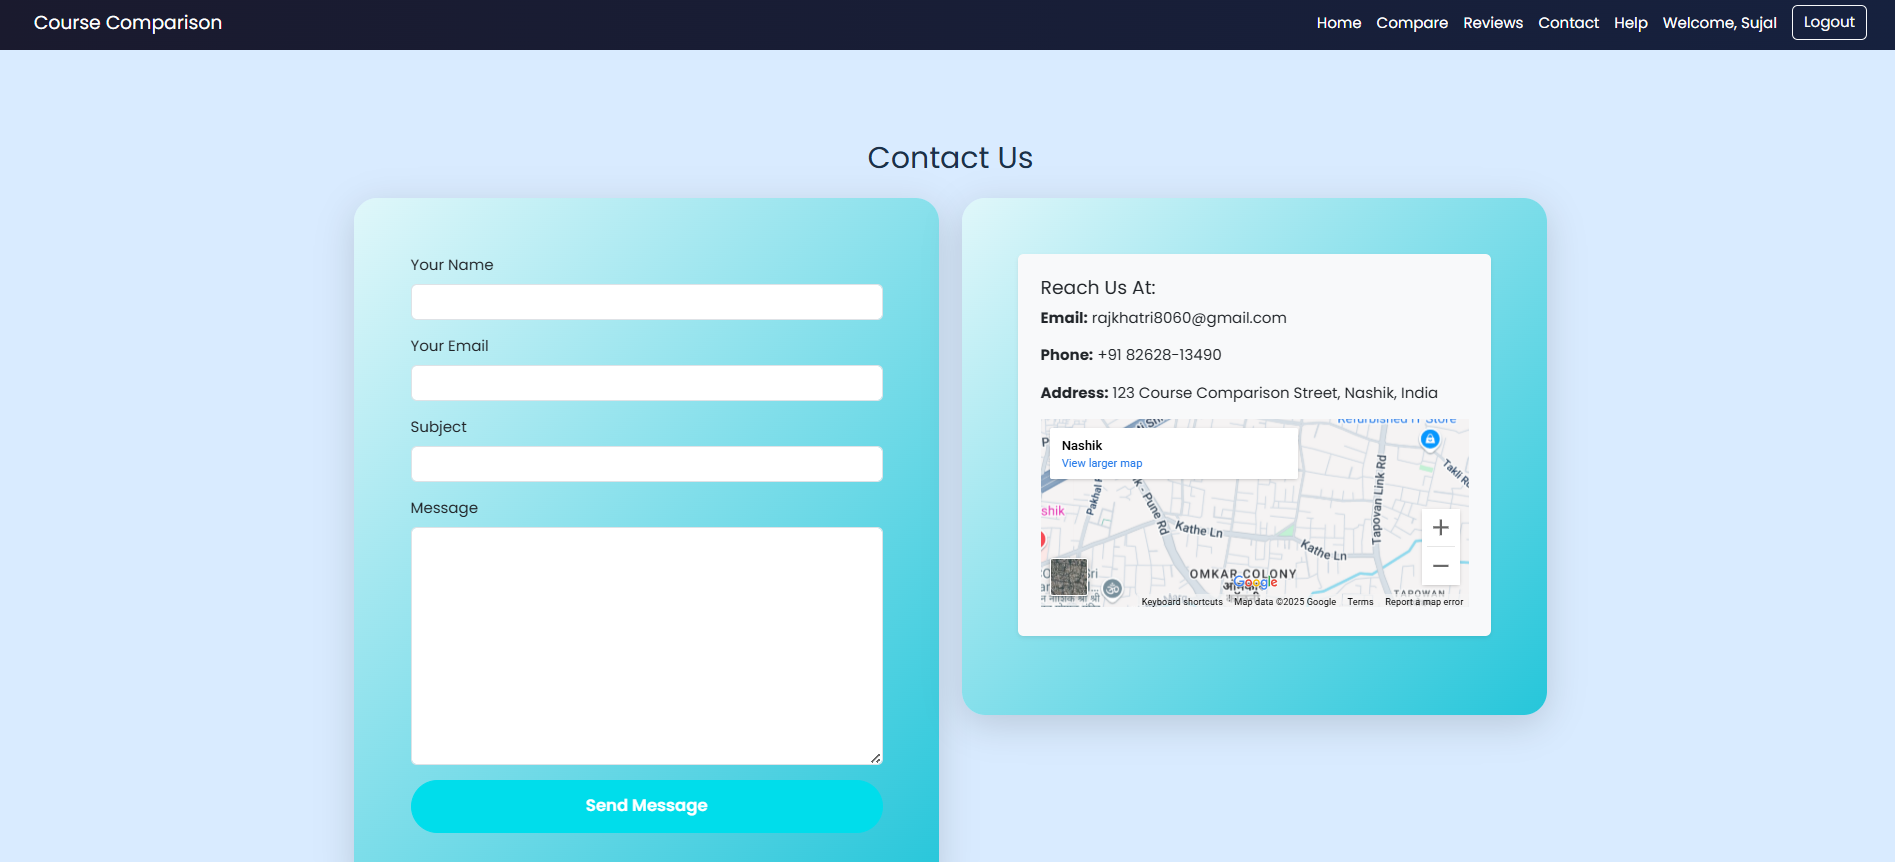
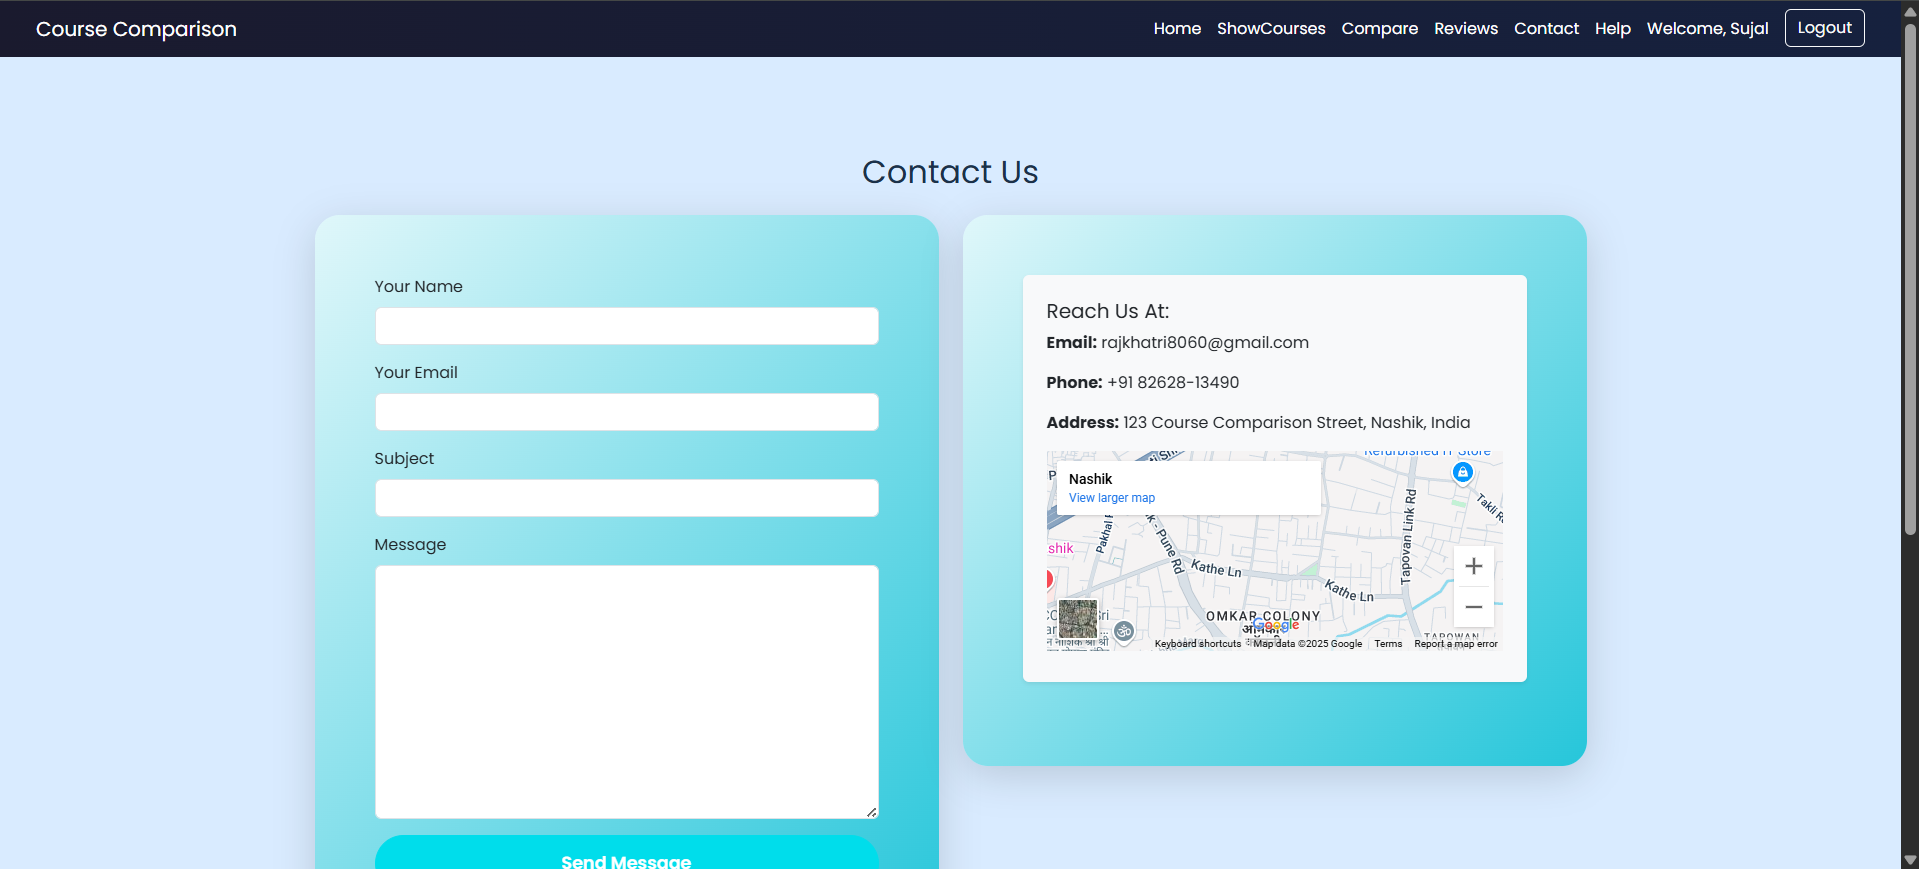
New Photos

Changed region(s): [[0.1557, 0.1508, 0.8406, 1.0], [0.0, 0.0, 1.0, 1.0]]

diff --git a/courses/templates/home.html b/courses/templates/home.html
@@ -3,12 +3,170 @@
 {% block title %}Home - Course Comparison{% endblock %}
 
 {% block content %}
+<style>
+    /* Hero Section Styling */
+    .hero-section {
+        background: linear-gradient(to right, #0d47a1 0%, #42a5f5 100%);
+        position: relative;
+        overflow: hidden;
+        padding: 6rem 2rem;
+        border-radius: 20px;
+        margin: 2rem auto;
+        max-width: 100%;
+        text-align: center;
+        color: #fff;
+    }
 
-<div class="hero-section">
-    <div class="backdrop animate__animated animate__fadeInUp text-center">
-        <h1 class="display-4 fw-bold">Find Your Ideal IT Course</h1>
-        <p class="lead mt-3">Explore and compare top IT courses in Pune based on fees, ratings, placements, and more to kickstart your career.</p>
-        <a href="{% url 'course_list' %}" class="btn btn-primary btn-lg mt-4 animate__animated animate__pulse animate__infinite">Compare Courses Now</a>
+    .hero-section::before {
+        content: '';
+        position: absolute;
+        top: 0;
+        left: 0;
+        height: 100%;
+        width: 100%;
+        background: linear-gradient(to right, rgba(0, 0, 0, 0.4), rgba(0, 0, 0, 0.05));
+        z-index: 0;
+    }
+
+    .hero-section > * {
+        position: relative;
+        z-index: 1;
+    }
+
+    .hero-title {
+        font-size: 2.8rem;
+        font-weight: 700;
+        text-transform: uppercase;
+        text-shadow: 1px 1px 4px rgba(0, 0, 0, 0.4);
+    }
+
+    .hero-lead {
+        font-size: 1.25rem;
+        max-width: 80%;
+        margin: 0 auto;
+        line-height: 1.7;
+        color: #f0f0f0;
+    }
+
+    .hero-btn {
+        background: #fff;
+        color: #0d47a1;
+        border: none;
+        padding: 0.85rem 2.2rem;
+        font-size: 1.125rem;
+        font-weight: 700;
+        border-radius: 50px;
+        transition: transform 0.3s, box-shadow 0.3s, background-color 0.3s;
+    }
+
+    .hero-btn:hover {
+        transform: scale(1.1);
+        box-shadow: 0 8px 16px rgba(0, 0, 0, 0.3);
+        background-color: #bbdefb;
+    }
+
+    /* Top Courses Styling */
+    .top-courses {
+        background: linear-gradient(to bottom, #f8f9fa 0%, #e9ecef 100%);
+        padding: 5rem 0;
+    }
+    .course-card {
+        border-radius: 15px;
+        transition: transform 0.3s, box-shadow 0.3s;
+        background: #fff;
+    }
+    .course-card:hover {
+        transform: translateY(-10px);
+        box-shadow: 0 12px 24px rgba(0, 0, 0, 0.2) !important;
+    }
+    .course-card .card-body {
+        padding: 1.5rem;
+    }
+    .course-card .card-title {
+        font-size: 1.5rem;
+        color: #343a40;
+    }
+    .course-card .badge {
+        font-size: 0.9rem;
+    }
+    .course-btn {
+        transition: background-color 0.3s, transform 0.2s;
+    }
+    .course-btn:hover {
+        background-color: #0056b3;
+        transform: scale(1.05);
+    }
+
+    /* CTA Section */
+    .cta-section {
+        background: #ffffff;
+        border-top: 1px solid #dee2e6;
+        padding: 4rem 0;
+    }
+    .cta-btn {
+        transition: transform 0.2s, box-shadow 0.2s;
+    }
+    .cta-btn:hover {
+        transform: scale(1.1);
+        box-shadow: 0 5px 15px rgba(0, 0, 0, 0.2);
+    }
+
+    /* Heading Hover */
+    .section-title:hover {
+        color: #007bff;
+        transform: scale(1.02);
+    }
+</style>
+
+<!-- Hero Section -->
+<section class="hero-section text-center">
+    <div class="container animate__animated animate__fadeIn">
+        <h1 class="hero-title mb-3">Find Your Ideal IT Course</h1>
+        <p class="hero-lead mb-4">
+            Explore and compare top IT courses in Pune based on fees, ratings, placements, and more to kickstart your career.
+        </p>
+        <a href="{% url 'course_list' %}" class="hero-btn btn mt-3 animate__animated animate__pulse animate__infinite">
+            Compare Courses Now
+        </a>
     </div>
-</div>
+</section>
+
+<!-- Top 3 Courses Section -->
+<section class="top-courses">
+    <div class="container">
+        <h2 class="section-title text-center fw-bold mb-5 animate__animated animate__fadeIn">Top 3 IT Courses of All Time</h2>
+        <div class="row g-4">
+            {% for course in top_courses %}
+            <div class="col-md-4">
+                <div class="course-card card h-100 shadow-sm border-0 animate__animated animate__fadeInUp">
+                    <div class="card-body">
+                        <h3 class="card-title fw-bold">{{ course.Name }}</h3>
+                        <p class="text-muted mb-2">{{ course.Institute }}</p>
+                        <span class="badge bg-success mb-3">Rating: {{ course.Rating }}/5</span>
+                        <p class="card-text">
+                            <i class="bi bi-currency-rupee me-1"></i><strong>Fees:</strong> ₹{{ course.Fees }}<br>
+                            <i class="bi bi-clock me-1"></i><strong>Duration:</strong> {{ course.Duration }}<br>
+                            <i class="bi bi-briefcase me-1"></i><strong>Placement Rate:</strong> {{ course.Placement_rate }}%
+                        </p>
+                        {% comment %} <a href="{% url 'course_detail' course.id %}" class="course-btn btn btn-primary">View Details</a> {% endcomment %}
+                    </div>
+                </div>
+            </div>
+            {% empty %}
+            <div class="col-12 text-center">
+                <p class="text-muted">No courses available at the moment.</p>
+            </div>
+            {% endfor %}
+        </div>
+    </div>
+</section>
+
+<!-- Call to Action Section -->
+<section class="cta-section text-center">
+    <div class="container">
+        <h3 class="section-title fw-bold mb-3 animate__animated animate__fadeIn">Ready to Start Your Journey?</h3>
+        <p class="lead mb-4">Join thousands of students who found their dream course with us.</p>
+        <a href="{% url 'course_list' %}" class="cta-btn btn btn-primary btn-lg">Compare All Courses</a>
+    </div>
+</section>
 {% endblock %}

diff --git a/courses/templates/show_courses.html b/courses/templates/show_courses.html
@@ -1,0 +1,90 @@
+{% extends "base.html" %}
+
+{% block title %}All Courses{% endblock %}
+
+{% block content %}
+<style>
+    .course-card {
+        transition: transform 0.3s ease, box-shadow 0.3s ease;
+        border: none;
+        border-radius: 10px;
+        background: linear-gradient(145deg, #ffffff, #f8f9fa);
+    }
+    .course-card:hover {
+        transform: translateY(-5px);
+        box-shadow: 0 10px 20px rgba(0, 0, 0, 0.15);
+    }
+    .course-title {
+        color: #2c3e50;
+        font-weight: 600;
+    }
+    .institute {
+        color: #6c757d;
+        font-style: italic;
+    }
+    .badge-success {
+        background-color: #28a745;
+    }
+    .syllabus {
+        max-height: 100px;
+        overflow-y: auto;
+        font-size: 0.9rem;
+        color: #495057;
+    }
+    .info-label {
+        color: #17a2b8;
+        font-weight: 500;
+    }
+    .container {
+        padding-bottom: 50px;
+    }
+    @media (max-width: 768px) {
+        .course-card {
+            margin-bottom: 20px;
+        }
+    }
+</style>
+
+<div class="container mt-5">
+    <h2 class="text-center mb-5 fw-bold" style="color: #343a40; text-shadow: 1px 1px 2px rgba(0,0,0,0.1);">
+        Explore Our Courses
+    </h2>
+    <div class="row">
+        {% for course in courses %}
+        <div class="col-md-6 col-lg-4 mb-4">
+            <div class="card course-card shadow-sm">
+                <div class="card-body p-4">
+                    <h4 class="course-title mb-3">{{ course.Name }}</h4>
+                    <h6 class="institute mb-3">{{ course.Institute }}</h6>
+                    <p class="mb-2"><span class="info-label">Fees:</span> ₹{{ course.Fees|floatformat:0 }}</p>
+                    <p class="mb-2"><span class="info-label">Duration:</span> {{ course.Duration }}</p>
+                    <p class="mb-2">
+                        <span class="info-label">Placement Rate:</span> 
+                        <span class="badge badge-success">{{ course.Placement_rate }}%</span>
+                    </p>
+                    <p class="mb-3">
+                        <span class="info-label">Rating:</span> 
+                        {% for i in "12345" %}
+                            <i class="fas fa-star {% if forloop.counter <= course.Rating %}text-warning{% else %}text-muted{% endif %}"></i>
+                        {% endfor %}
+                    </p>
+                    <div class="syllabus p-3 bg-light rounded">
+                        <strong class="info-label">Syllabus:</strong><br>
+                        {{ course.Syllabus|linebreaks }}
+                    </div>
+                    <a href="{% url 'review'%}" class="btn btn-outline-primary btn-sm mt-3 w-100">See Reviews</a>
+                </div>
+            </div>
+        </div>
+        {% empty %}
+        <div class="col-12 text-center py-5">
+            <p class="text-muted fs-4">No courses available at the moment.</p>
+            <a href="#" class="btn btn-primary">Check Back Later</a>
+        </div>
+        {% endfor %}
+    </div>
+</div>
+
+<!-- Include Font Awesome for star icons -->
+<script src="https://kit.fontawesome.com/a076d05399.js" crossorigin="anonymous"></script>
+{% endblock %}

diff --git a/courses/templates/base.html b/courses/templates/base.html
@@ -138,6 +138,9 @@
                         <a class="nav-link {% if request.path == '/' %}active{% endif %}" href="{% url 'home' %}">Home</a>
                     </li>
                     <li class="nav-item">
+                        <a class="nav-link {% if request.path == '/show_courses/' %}active{% endif %}" href="{% url 'show_courses' %}">ShowCourses</a>
+                    </li>
+                    <li class="nav-item">
                         <a class="nav-link {% if request.path == '/Compare/' %}active{% endif %}" href="{% url 'course_list' %}">Compare</a>
                     </li>
                     <li class="nav-item">

diff --git a/courses/views.py b/courses/views.py
@@ -7,8 +7,14 @@ from django.contrib.auth import authenticate, login as auth_login, logout as aut
 from django.contrib.auth.decorators import login_required
 
 def home(request):
-    return render(request, 'home.html')
+    top_courses = Course.objects.order_by('-Rating')[:3]
+    return render(request, 'home.html', {'top_courses': top_courses})
 
+def show_courses(request):
+    courses = Course.objects.all()
+    return render(request, 'show_courses.html', {'courses': courses})
+
+@login_required
 def course_list(request):
     courses = Course.objects.all()
     return render(request, 'course_list.html', {'courses': courses})

diff --git a/courses/urls.py b/courses/urls.py
@@ -4,6 +4,7 @@ from .import views
 
 urlpatterns = [
     path('',views.home, name="home"),
+    path('courses/', views.show_courses, name='show_courses'),
     path('Compare/', views.course_list, name='course_list'),
     path('review/', views.review, name="review"),
     path('contact/',views.contact, name="contact"),
